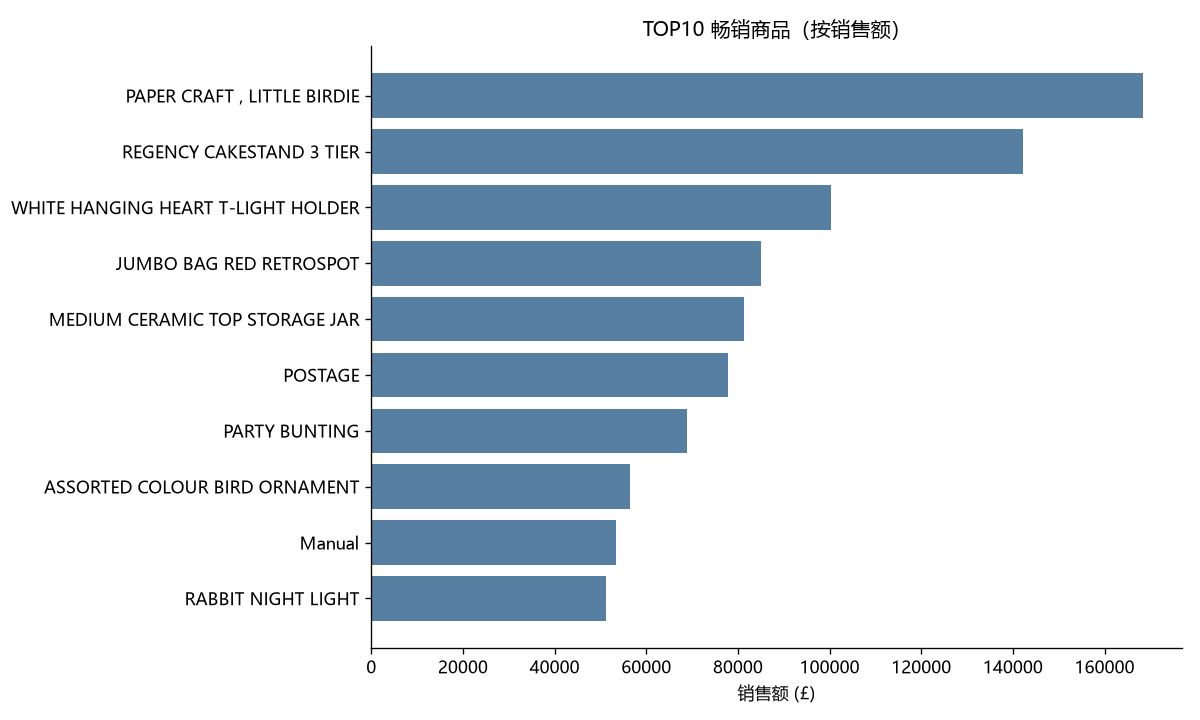
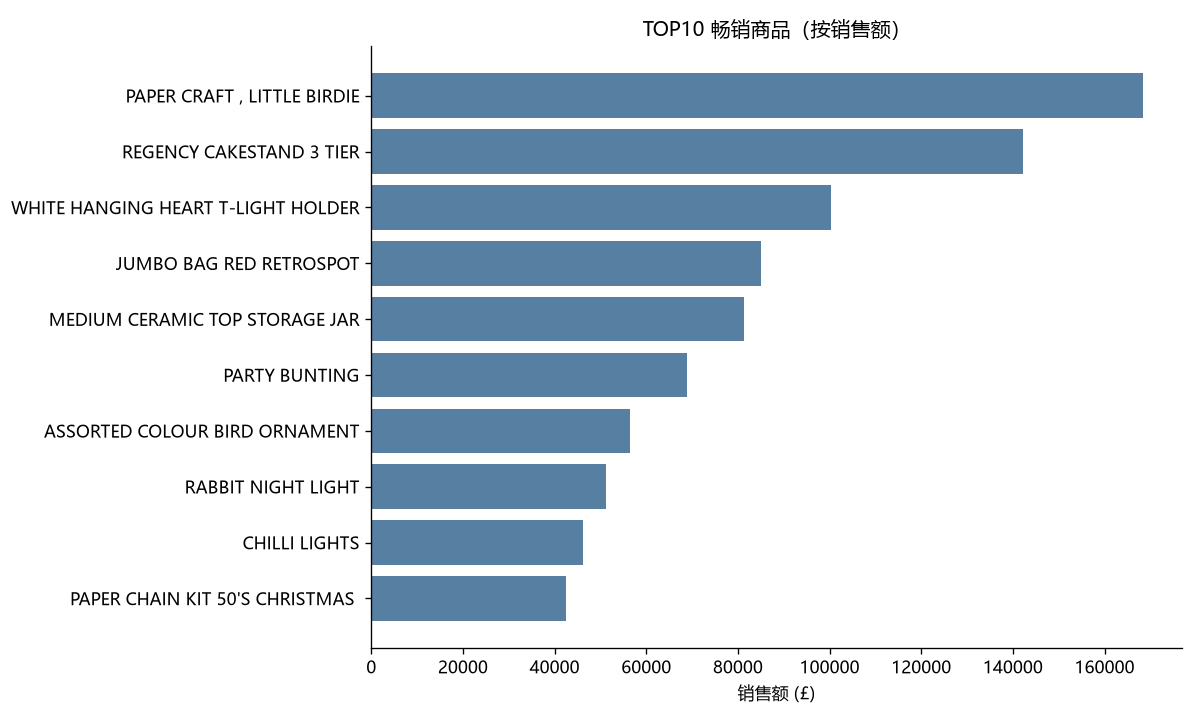
fix: 剔除邮费与手工录入项，修正 TOP10 商品口径

diff --git a/scripts/step6_visualize.py b/scripts/step6_visualize.py
@@ -65,7 +65,9 @@ print("    ✓ 01_daily_trend.png")
 print("\n  [2/6] TOP10 畅销商品...")
 df = pd.read_sql("""
     SELECT Description, ROUND(SUM(TotalAmount), 2) AS sales
-    FROM orders GROUP BY Description
+    FROM orders
+    WHERE StockCode NOT IN ('POST','D','M','DOT','C2','BANK CHARGES','AMAZONFEE','S','PAD','SP1002')
+    GROUP BY Description
     ORDER BY sales DESC LIMIT 10
 """, conn)
 df["Description"] = df.Description.str[:40]

diff --git a/scripts/step4_sql_analysis.py b/scripts/step4_sql_analysis.py
@@ -54,6 +54,7 @@ SELECT StockCode, Description,
   SUM(Quantity) AS 销售数量,
   ROUND(SUM(TotalAmount), 2) AS 销售额
 FROM orders
+WHERE StockCode NOT IN ('POST','D','M','DOT','C2','BANK CHARGES','AMAZONFEE','S','PAD','SP1002')
 GROUP BY StockCode
 ORDER BY 销售额 DESC
 LIMIT 10

diff --git a/README.md b/README.md
@@ -69,6 +69,7 @@
 - **取消订单为什么单独处理**：取消订单的 `Quantity` 为负，已在「无效订单」一步被 `Quantity > 0` 过滤，单独一步为防御性写法。
 - **索引验证**：`EXPLAIN QUERY PLAN` 输出 `SEARCH orders USING COVERING INDEX idx_orders_customer (CustomerID=?)`，确认查询命中覆盖索引。
 - **RFM 打分**：用 `pd.qcut(rank(method="first"), 5)` 做等频分箱，避免等距分箱在长尾消费分布下严重倾斜。
+- **TOP10 商品口径**：剔除 `POST`（邮费）、`M`（手工录入）、`D`（折扣）等非商品 StockCode。`PAPER CRAFT, LITTLE BIRDIE` 的 £168,469 销售额来自单笔 8 万件的批发订单，不代表常规零售趋势，分析结论时应单独看待。
 
 ## 目录结构
 

diff --git a/output/metrics.md b/output/metrics.md
@@ -16,11 +16,11 @@
 | 85123A | WHITE HANGING HEART T-LIGHT HO | 1,978 | 36,763 | £100,547.45 |
 | 85099B | JUMBO BAG RED RETROSPOT | 1,600 | 46,078 | £85,040.54 |
 | 23166 | MEDIUM CERAMIC TOP STORAGE JAR | 195 | 77,916 | £81,416.73 |
-| POST | POSTAGE | 1,099 | 3,120 | £77,803.96 |
 | 47566 | PARTY BUNTING | 1,379 | 15,279 | £68,785.23 |
 | 84879 | ASSORTED COLOUR BIRD ORNAMENT | 1,375 | 35,263 | £56,413.03 |
-| M | Manual | 253 | 6,933 | £53,419.93 |
 | 23084 | RABBIT NIGHT LIGHT | 801 | 27,153 | £51,251.24 |
+| 22502 | PICNIC BASKET WICKER SMALL | 234 | 1,485 | £47,348.35 |
+| 79321 | CHILLI LIGHTS | 519 | 9,646 | £46,265.11 |
 
 ## 各国家销售额 TOP10
 - **United Kingdom**: 3,920 客户 / 16,646 订单 / £7,285,024.64 销售额
